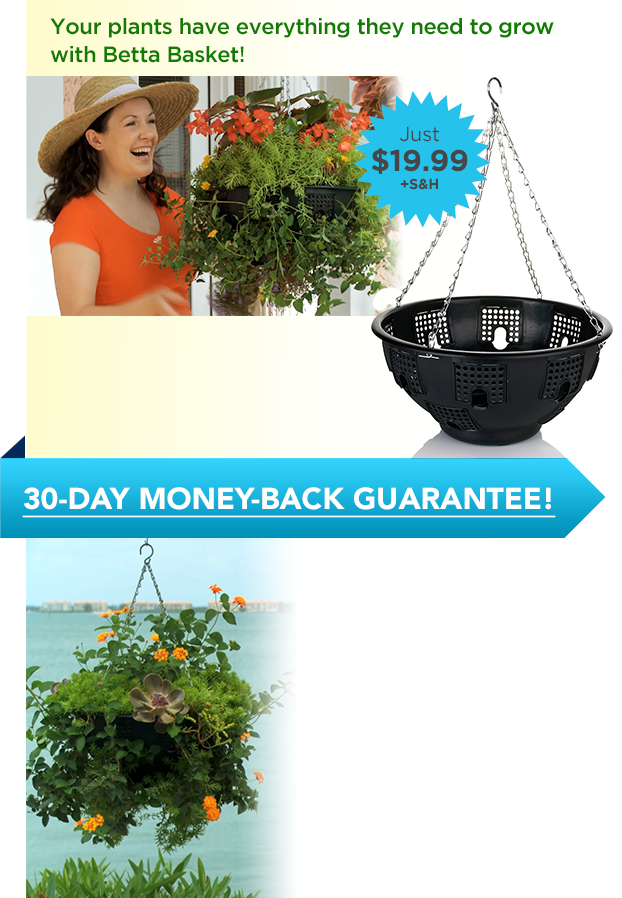
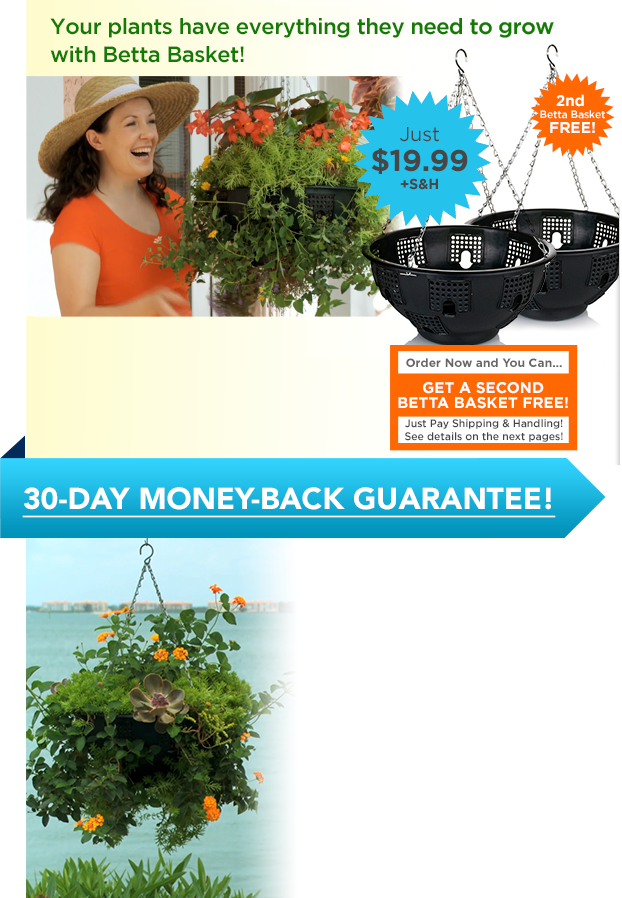
Pranav Push Frontend Updates

diff --git a/Website/CSWeb/Styles/global.css b/Website/CSWeb/Styles/global.css
@@ -611,26 +611,28 @@ margin-left: 12px;
 }
 
 .cart_left {
-	position:relative;
-	width: 505px;
-	color: #767676;
-	font-size: 15px;
-	float:left;
-	padding-top: 10px;
+  color: #767676;
+  float: left;
+  font-size: 15px;
+  padding-top: 10px;
+  position: relative;
+  width: 520px;
 }
 
 .cart_right {
-	position:relative;
-	width: 290px;
-	float:left;
+  float: left;
+  position: relative;
+  width: 280px;
 }
 
 .cart_offer {
-	font-size: 11px;
-	line-height: 16px;
-	padding-top: 20px;	
+  font-size: 11px;
+  line-height: 16px;
+  margin-left: -20px;
+  padding-top: 20px;
+  position: relative;
+  z-index: 10000;
 }
-
 .horizontal_dots {
 	height: 1px;
 	margin: 10px 0;

diff --git a/Website/CSWeb/bottomcta.html b/Website/CSWeb/bottomcta.html
@@ -1,5 +1,5 @@
 <div class="site_bottom"><img src="Content/Images/bottom_cta.jpg" alt="Order Now" width="905" height="381" usemap="#Mapbottomcta" border="0" />
   <map name="Mapbottomcta" id="Mapbottomcta">
-    <area shape="rect" coords="491,252,769,335" href="#tryitnow" rel="" id="tryanchor" class="anchorLink" />
+    <area shape="rect" coords="518,267,796,350" href="#tryitnow" class="try" />
   </map>
 </div>
